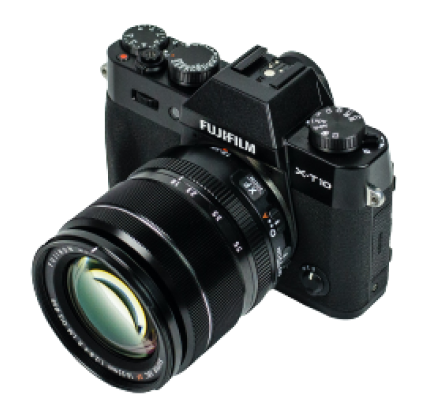
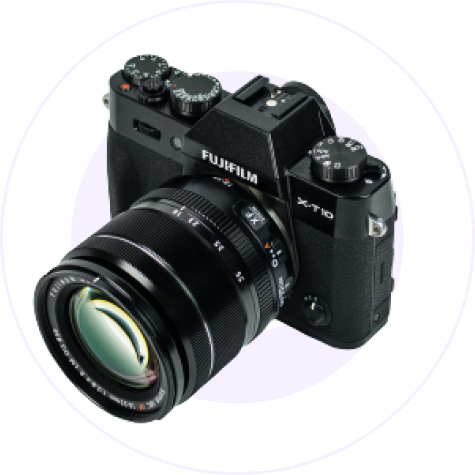
Header Done

Changed region(s): [[0.0591, 0.058, 0.9159, 0.9565]]

diff --git a/style/style.css b/style/style.css
@@ -1,20 +1,8 @@
-*body{
+body{
     box-sizing: border-box;
     margin: 0;
     padding: 0;
-}
-.container{
-    max-width: 1140px;
-    margin: 0 auto;
-}
-.navigation{
-    display: flex;
-    justify-content: space-between;
-}
-.navLinks{
-    display: flex;
-    gap: 30px;
-
+    font-family: 'Poppins', sans-serif;
 }
 ul{
     list-style: none;
@@ -22,3 +10,72 @@ ul{
 a{
     text-decoration: none;
 }
+h1, p{
+    margin: 0;
+}
+.container{
+    max-width: 1140px;
+    margin: 0 auto;
+}
+/* ------------Header Start------------ */
+header{
+    height: 100vh;
+}
+.navigation{
+    display: flex;
+    justify-content: space-between;
+    align-items: center;
+    margin-top: 40px;
+}
+.navLinks{
+    display: flex;
+    gap: 30px;
+
+}
+.logo{
+    font-weight: 700;
+    font-size: 24px;
+    color: #3A3A3A;
+}
+.navLinks a{
+    font-weight: 600;
+    font-size: 16px;
+    color: #3A3A3A;
+}
+.headerContent{
+    margin-top: 160px;
+}
+.headerContentWrapper{
+    display: flex;
+    justify-content: space-between;
+    align-items: center;
+}
+.herocontent h1{
+    font-weight: 700;
+    font-size: 52px;
+    line-height: 70px;
+    color: #3A3A3A;
+}
+.herocontent p {
+    font-weight: 600;
+    font-size: 16px;
+    line-height: 24px;
+    color: #3A3A3A;
+    width: 505px;
+    margin-top: 16px;
+    margin-bottom: 24px;
+    }
+
+.headerBtn{
+    font-weight: 700;
+    font-size: 16px;
+    color: #FFFFFF;
+    background-color: #E02C6D;
+    display: inline-block;
+    padding: 10px 24px;
+    border-radius: 24px;
+}
+/* ------------- Header End ------------- */
+
+
+/* ------------Responsive Design ------------ */

diff --git a/index.html b/index.html
@@ -7,8 +7,12 @@
     <title>Influncer Products</title>
     <link rel="stylesheet" href="style/style.css">
     <script src="https://kit.fontawesome.com/1204384426.js" crossorigin="anonymous"></script>
+    <link rel="preconnect" href="https://fonts.googleapis.com">
+    <link rel="preconnect" href="https://fonts.gstatic.com" crossorigin>
+    <link href="https://fonts.googleapis.com/css2?family=Poppins:wght@400;500;700&display=swap" rel="stylesheet">
 </head>
 <body>
+    <!-- ----------Header section start--------- -->
     <header>
         <div class="container">
             <div class="headerTop">
@@ -26,7 +30,21 @@
                     </ul>
                 </nav>
             </div>
+            <div class="headerContent">
+                <div class="headerContentWrapper">
+                    <div class="herocontent">
+                        <h1>Start your Journey as 
+                            Influencer</h1>
+                        <p>Lorem ipsum dolor sit amet, consectetur adipiscing elit. Sem vestibulum sed scelerisque eros. Lectus faucibus.</p>
+                        <div class="headerBtn">Preebook now <i class="fa-solid fa-arrow-right-long"></i></div>
+                    </div>
+                    <div class="headerImage">
+                        <img src="images/main-camera.png" alt="Camara">
+                    </div>
+                </div>
+            </div>
         </div>
     </header>
+    <!-- ----------Header Section End---------- -->
 </body>
 </html>
